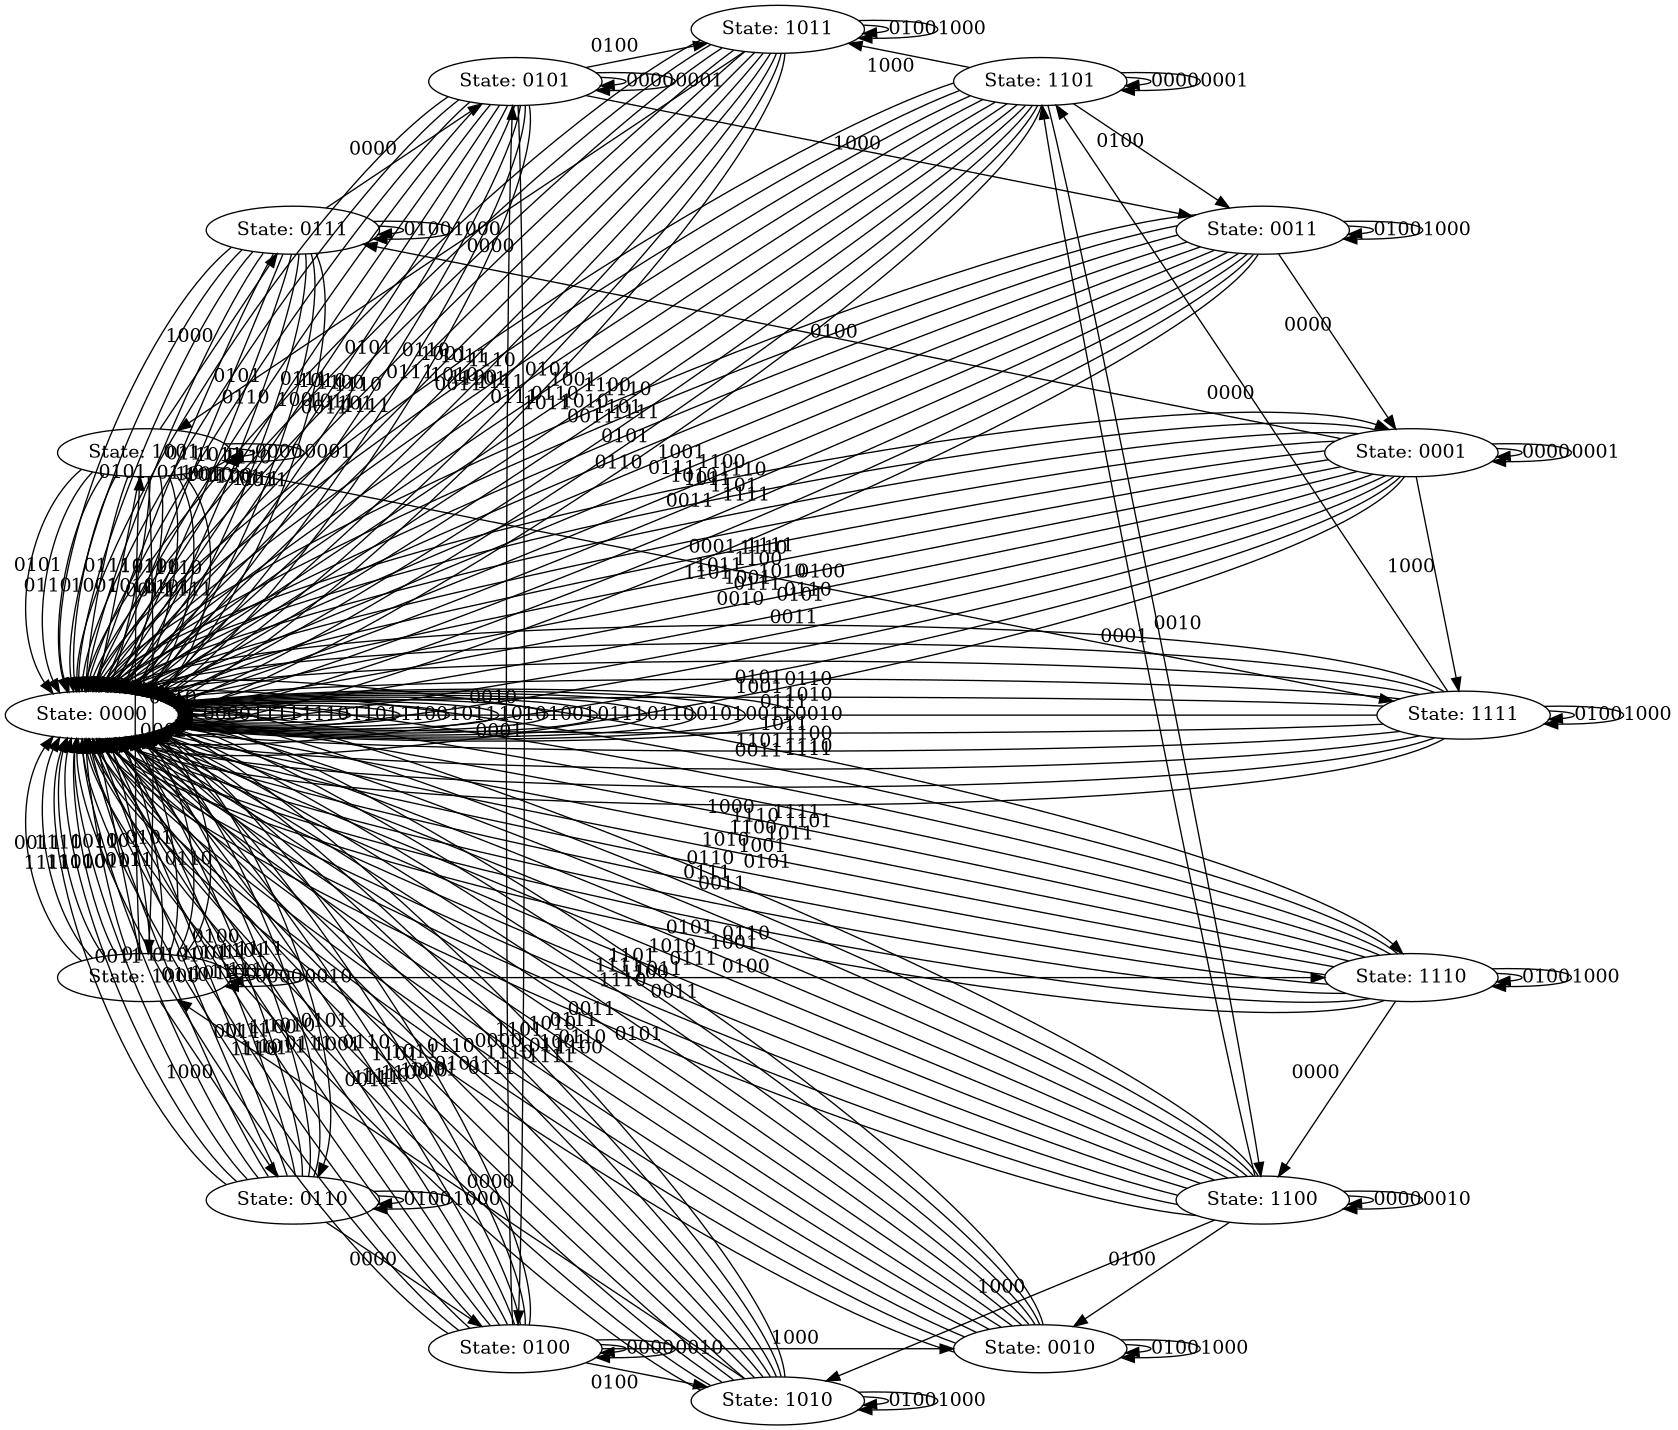
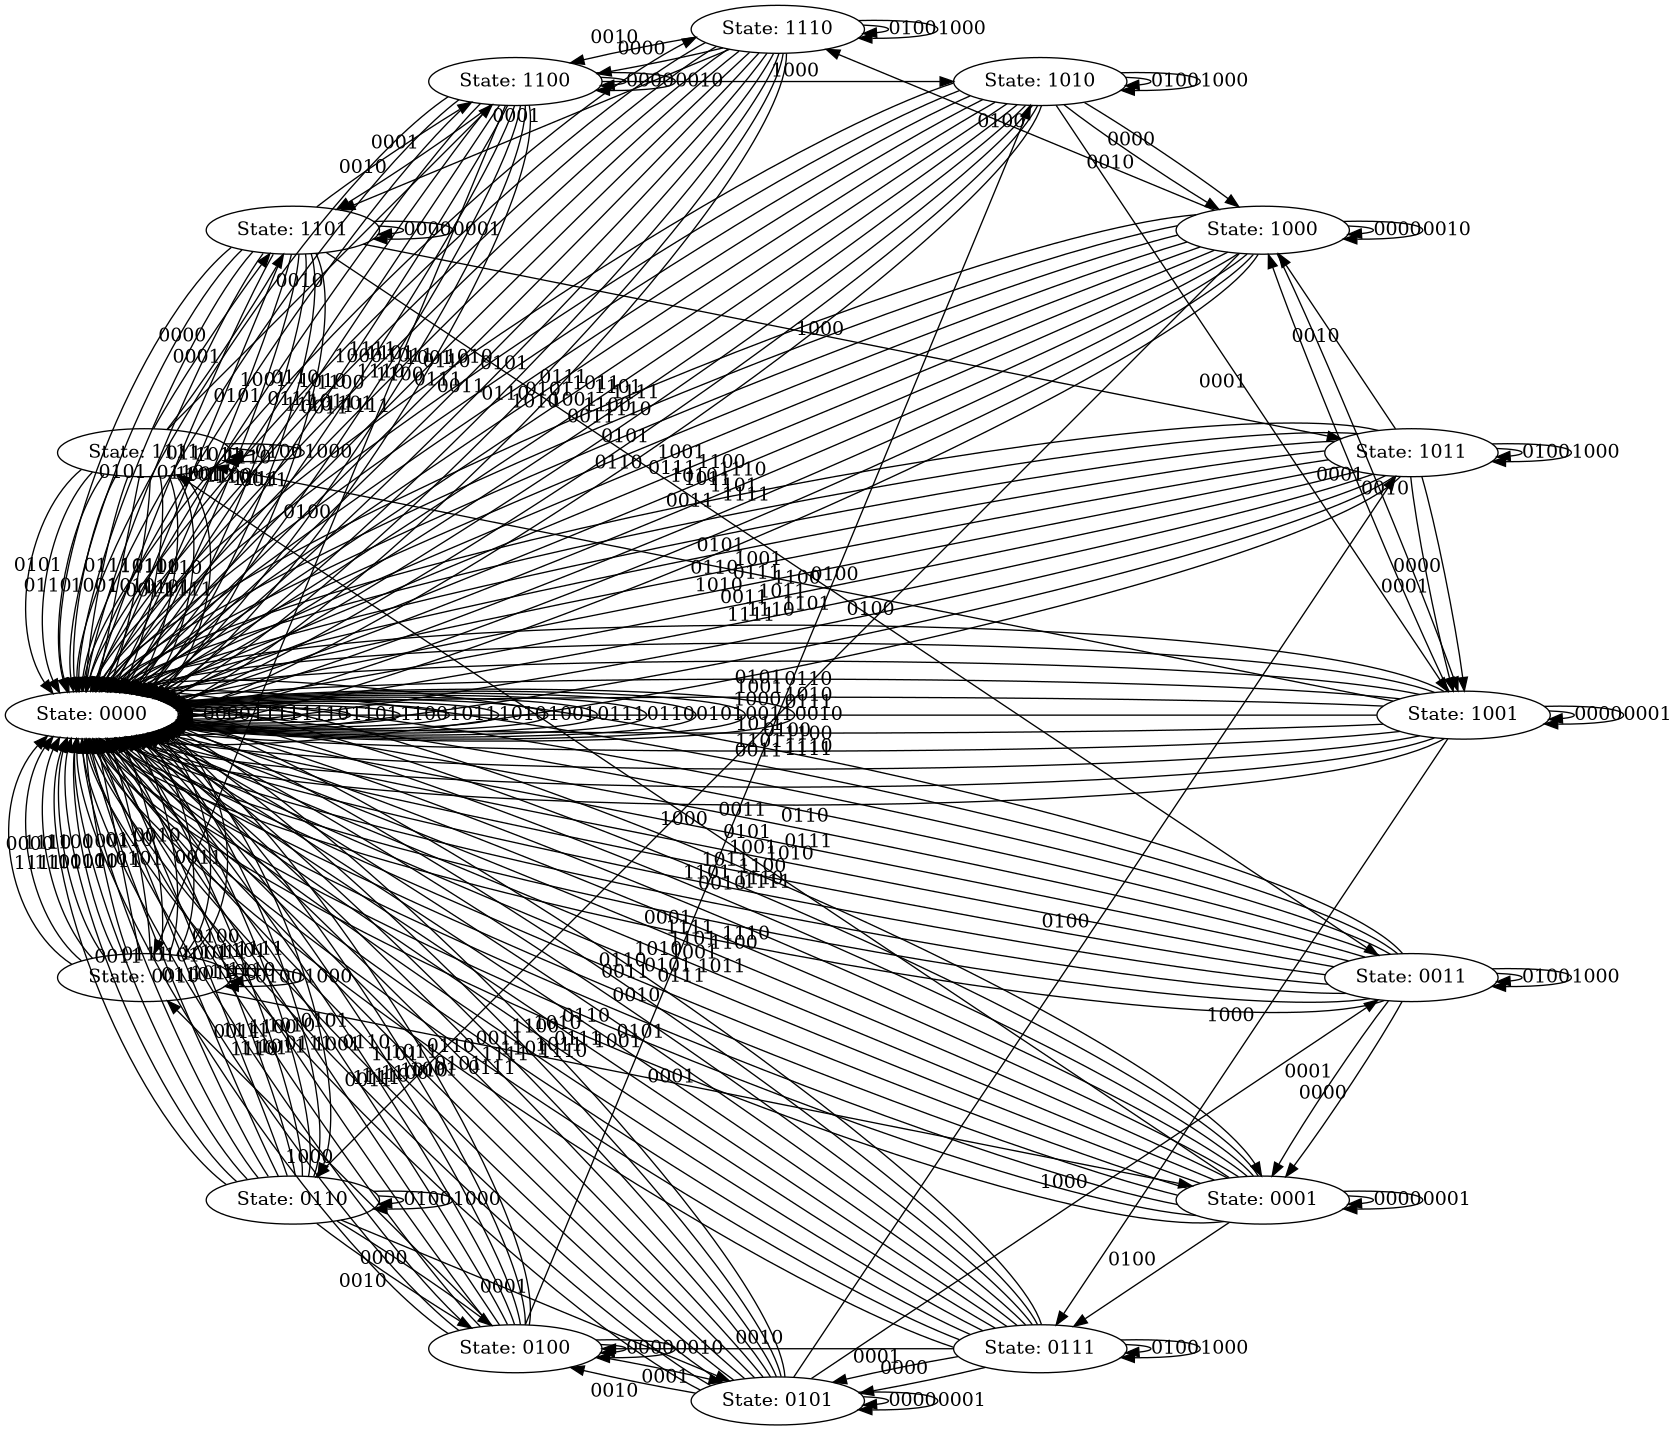
fix: handle pause/play inputs for transition states

diff --git a/lab3/gates.py b/lab3/gates.py
@@ -1,6 +1,5 @@
 def next_is_playing(music2, music1, transition, is_playing, previous, next, pause, play):
-    res =  not transition and \
-         not previous and \
+    res =  not previous and \
          not next and \
          not pause and \
         play or is_playing and \
@@ -10,7 +9,6 @@ def next_is_playing(music2, music1, transition, is_playing, previous, next, paus
          not next and \
          not pause and \
          not play
-
     return int(res)
 
 def next_transition(music2, music1, transition, is_playing, previous, next, pause, play):
@@ -21,7 +19,6 @@ def next_transition(music2, music1, transition, is_playing, previous, next, paus
          not next and \
          not pause and \
          not play
-
     return int(res)
 
 def next_music1(music2, music1, transition, is_playing, previous, next, pause, play):
@@ -36,23 +33,20 @@ def next_music1(music2, music1, transition, is_playing, previous, next, pause, p
          not next and \
          not pause and \
          not play or music1 and \
-         not transition and \
+        transition and \
+         not previous and \
+         not pause and \
+         not play or music1 and \
+        transition and \
+         not next and \
+         not pause and \
+         not play or music1 and \
          not previous and \
          not next and \
          not pause or music1 and \
-         not transition and \
          not previous and \
          not next and \
-         not play or music1 and \
-        transition and \
-         not previous and \
-         not pause and \
-         not play or music1 and \
-        transition and \
-         not next and \
-         not pause and \
          not play
-
     return int(res)
 
 def next_music2(music2, music1, transition, is_playing, previous, next, pause, play):
@@ -73,14 +67,6 @@ def next_music2(music2, music1, transition, is_playing, previous, next, pause, p
          not previous and \
          not pause and \
          not play or music2 and \
-         not transition and \
-         not previous and \
-         not next and \
-         not pause or music2 and \
-         not transition and \
-         not previous and \
-         not next and \
-         not play or music2 and \
         transition and \
          not previous and \
          not pause and \
@@ -92,6 +78,11 @@ def next_music2(music2, music1, transition, is_playing, previous, next, pause, p
         music1 and \
          not next and \
          not pause and \
+         not play or music2 and \
+         not previous and \
+         not next and \
+         not pause or music2 and \
+         not previous and \
+         not next and \
          not play
-
     return int(res)

diff --git a/lab3/tests/test_transitions.py b/lab3/tests/test_transitions.py
@@ -16,7 +16,7 @@ class TestTransitions:
         for song_no in range(SONGS_COUNT):
             for transition in range(2):
                 for is_playing in range(2):
-                    for transition_type in [TRANSITION_NEXT, TRANSITION_PREVIOUS, RESUME, PAUSE, NO_CLICK]:
+                    for transition_type in range(2 ** 4):
                         curr_state = State(
                             song_no = song_no,
                             is_transition_property=transition,
@@ -24,7 +24,8 @@ class TestTransitions:
                         )
 
                         if transition_type not in graph[curr_state]:
-                            continue
+                            print(f"Transition {curr_state} -> {transition_type:04b} is not valid")
+                        #     continue
 
                         checked_states_cnt += 1
 

diff --git a/lab3/graph.py b/lab3/graph.py
@@ -72,6 +72,16 @@ def create_graph():
                 is_transition_property = 0,
                 is_playing_property = state.is_playing()
             )
+            graph[state][RESUME] = State(
+                song_no = state.get_song_number(),
+                is_transition_property = 0,
+                is_playing_property = 1
+            )
+            graph[state][PAUSE] = State(
+                song_no = state.get_song_number(),
+                is_transition_property = 0,
+                is_playing_property = 0
+            )
         else:
             graph[state][TRANSITION_NEXT] = State(
                 song_no = (state.get_song_number() + 1) % SONGS_COUNT,
